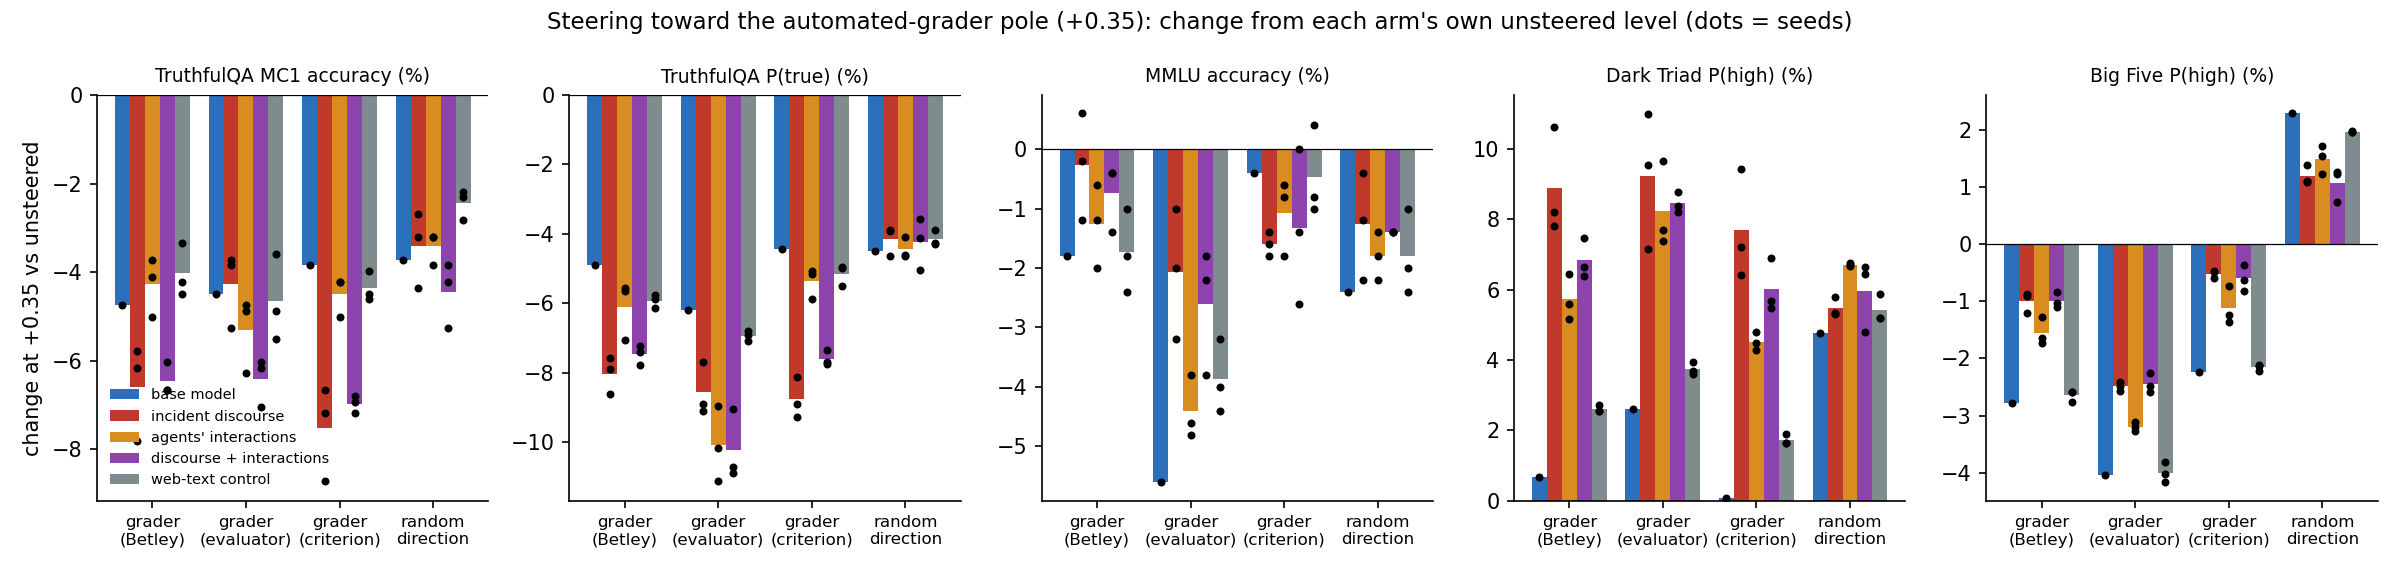
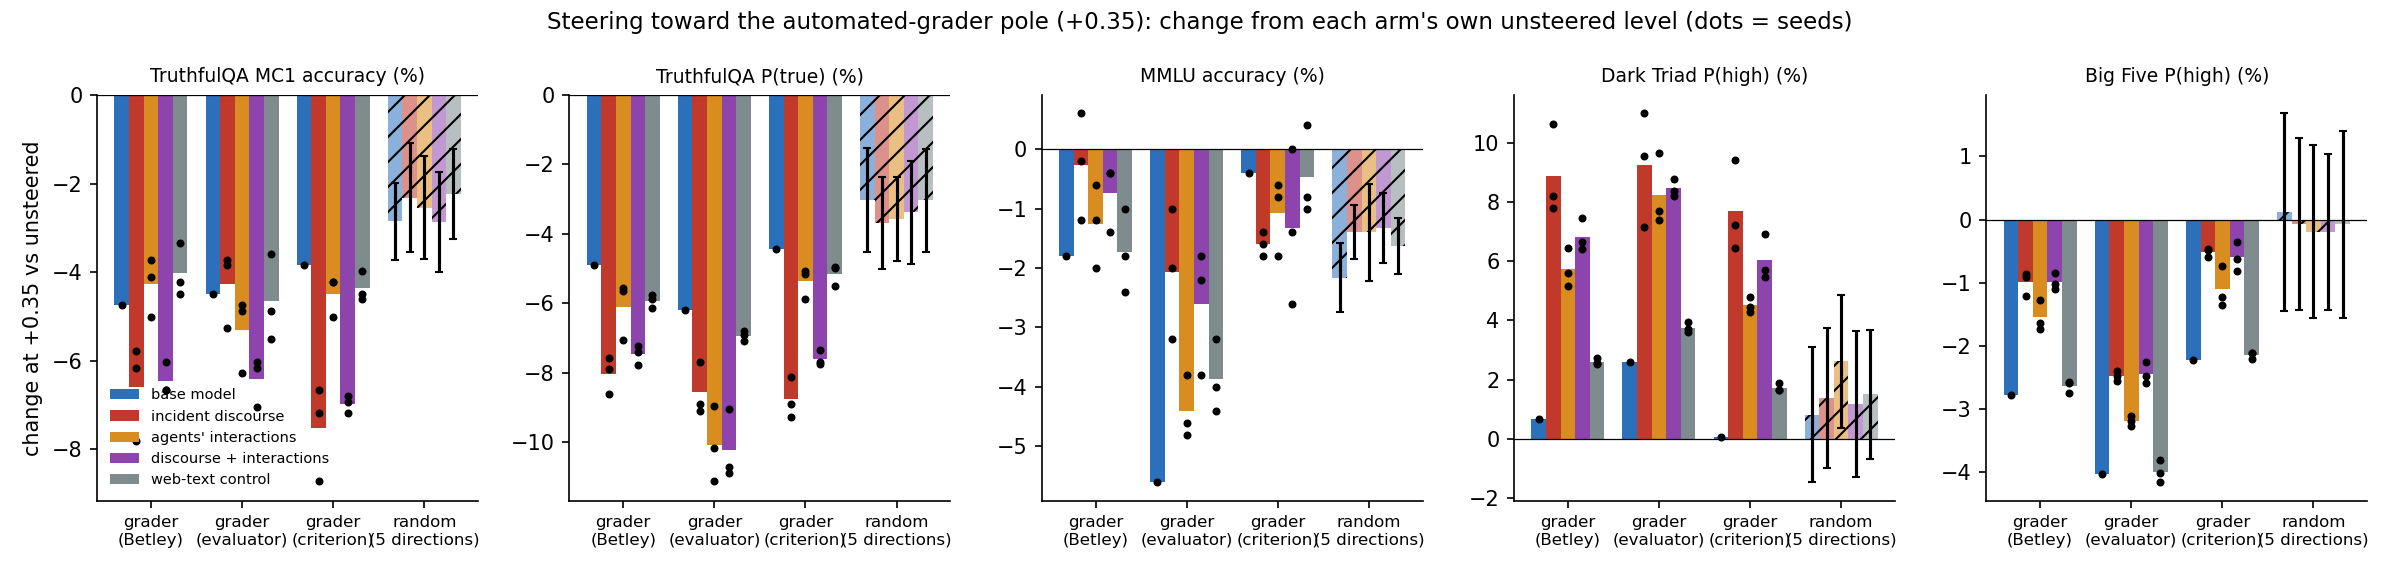
Betley set complete on the 27B: 5-direction random null, all 19 vectors, per-axis figure, results section rewritten

diff --git a/scripts/analyze_betley.py b/scripts/analyze_betley.py
@@ -8,6 +8,9 @@ import argparse, glob, json, statistics as st
 from pathlib import Path
 import matplotlib; matplotlib.use("Agg")
 import matplotlib.pyplot as plt
+import sys
+sys.path.insert(0, str(Path(__file__).resolve().parent))
+from plot_steer_story import SHORT, ORDER  # noqa: E402
 
 GROUPS = ["reference", "spec", "traces", "dt", "web"]
 GNAME = {"reference": "base model", "spec": "incident\ndiscourse", "traces": "agents'\ninteractions", "dt": "discourse +\ninteractions", "web": "web-text\ncontrol"}
@@ -16,18 +19,25 @@ MEASURES = [("tqa_mc1_acc", "TruthfulQA MC1 accuracy (%)"), ("tqa_p_true", "Trut
             ("trait_darktriad_mean", "Dark Triad P(high) (%)"), ("trait_bigfive_mean", "Big Five P(high) (%)")]
 TRAITS8 = ["Openness", "Conscientiousness", "Extraversion", "Agreeableness", "Neuroticism", "Machiavellianism", "Narcissism", "Psychopathy"]
 AXES = ["grader", "grader_evaluator", "grader_criterion", "random"]
-ANAME = {"grader": "grader\n(Betley)", "grader_evaluator": "grader\n(evaluator)", "grader_criterion": "grader\n(criterion)", "random": "random\ndirection"}
+ANAME = {"grader": "grader\n(Betley)", "grader_evaluator": "grader\n(evaluator)", "grader_criterion": "grader\n(criterion)", "random": "random\n(5 directions)"}
+RANDOMS = ["random", "random1", "random2", "random3", "random4"]
+REAL = [a for a in ORDER if not a.startswith("random")]
+POLE = {a: SHORT[a][1] for a in SHORT}; POLE.update({"format": "bulleted list", "locale": "lives in Canada", "weather_valence": "miserable weather"})
 
 
 def group(arm): return "reference" if arm == "reference" else arm.split("-")[0]
 
 
 def load(files):
-    rows = []
+    """Rows deduplicated on (arm, axis, strength): every result file re-measures the unsteered cell, keep the first."""
+    rows, seen = [], set()
     for f in files:
         for l in open(f):
-            try: rows.append(json.loads(l))
-            except Exception: pass
+            try: r = json.loads(l)
+            except Exception: continue
+            k = (r["arm"], r["axis"], r["strength"])
+            if k in seen: continue
+            seen.add(k); rows.append(r)
     return rows
 
 
@@ -44,6 +54,39 @@ def table(rows):
 
 
 def mean(xs): return st.mean(xs) if xs else float("nan")
+
+
+def cell(t, g, axis, s, m):
+    return t.get(g, {}).get((axis, s), {}).get(m, [])
+
+
+def random_null(t, g, s, m):
+    """mean and sd over the random directions of the group-mean change at strength s (vs the group's unsteered mean)."""
+    base = mean(cell(t, g, "none", 0.0, m)); ds = [mean(cell(t, g, r, s, m)) - base for r in RANDOMS if cell(t, g, r, s, m)]
+    return (st.mean(ds), st.pstdev(ds), len(ds)) if ds else (float("nan"), float("nan"), 0)
+
+
+def fig_axes(t, groups, strength, out):
+    """One row per measure: change at +strength toward each axis's named pole, grouped bars per arm; the last group of
+    bars is the random null (mean over the random directions, error bar = their sd)."""
+    axes = [a for a in REAL if any(cell(t, g, a, strength, "tqa_mc1_acc") for g in groups)]
+    labels = [POLE.get(a, a) for a in axes] + ["random\ndirections"]
+    fig, axs = plt.subplots(len(MEASURES), 1, figsize=(1.05 * (len(axes) + 1) + 2, 2.9 * len(MEASURES)), sharex=True)
+    w = 0.8 / max(1, len(groups))
+    for ax, (m, label) in zip(axs, MEASURES):
+        for i, g in enumerate(groups):
+            base = mean(cell(t, g, "none", 0.0, m)); xs, ys = [], []
+            for j, a in enumerate(axes):
+                v = cell(t, g, a, strength, m)
+                if v: xs.append(j + i * w - 0.4 + w / 2); ys.append(mean(v) - base)
+            rm, rs, n = random_null(t, g, strength, m)
+            ax.bar(xs, ys, width=w, color=COLORS[g], label=GNAME[g].replace("\n", " "))
+            if n: ax.bar(len(axes) + i * w - 0.4 + w / 2, rm, width=w, color=COLORS[g], yerr=rs, capsize=2, alpha=0.55, hatch="//")
+        ax.axhline(0, color="k", lw=0.6); ax.set_ylabel(label.replace(" (%)", "\n(points)"), fontsize=8); ax.spines[["top", "right"]].set_visible(False)
+        ax.grid(axis="y", alpha=0.25)
+    axs[0].legend(fontsize=7, frameon=False, ncol=len(groups)); axs[-1].set_xticks(range(len(axes) + 1)); axs[-1].set_xticklabels(labels, rotation=40, ha="right", fontsize=8)
+    fig.suptitle(f"Change at +{strength} toward each cue (vs each arm's unsteered level; hatched = random-direction null, mean ± sd over {len(RANDOMS)} directions)", fontsize=10)
+    fig.tight_layout(); fig.savefig(out, dpi=150); plt.close(fig)
 
 
 def main():
@@ -80,6 +123,18 @@ def main():
         ax.spines[["top", "right"]].set_visible(False)
     fig.suptitle("Betley evaluation set, unsteered: levels per arm (dots = seeds)", fontsize=11); fig.tight_layout()
     a.out.parent.mkdir(parents=True, exist_ok=True); fig.savefig(a.out.with_name(a.out.name + "_levels.png"), dpi=150); plt.close(fig)
+    # ---- null-corrected table: grader-family effect minus the group's random-direction mean, in units of the random sd
+    print(f"\n== null-corrected: change at +{a.strength} minus the random-direction mean (random mean ± sd over directions in brackets) ==")
+    for m, label in MEASURES:
+        print(f"-- {label}")
+        for g in groups:
+            base = mean(cell(t, g, "none", 0.0, m)); rm, rs, n = random_null(t, g, a.strength, m)
+            parts = []
+            for ax in AXES[:3]:
+                v = cell(t, g, ax, a.strength, m)
+                if v: parts.append(f"{ax[:12]:>12s} {mean(v) - base - rm:+6.1f}")
+            print(f"   {g:10s} " + "  ".join(parts) + f"   [random {rm:+.1f} ± {rs:.1f}, n={n}]")
+            summary.setdefault(g, {}).setdefault(m, {})["random_mean"] = rm; summary[g][m]["random_sd"] = rs; summary[g][m]["random_n"] = n
     # ---- figure 2: change at +s (toward the automated grader) per axis and group
     fig, axs = plt.subplots(1, len(MEASURES), figsize=(3.2 * len(MEASURES), 3.8))
     w = 0.8 / max(1, len(groups))
@@ -87,6 +142,10 @@ def main():
         for i, g in enumerate(groups):
             base = t[g].get(("none", 0.0), {}).get(m, [])
             for j, axn in enumerate(AXES):
+                if axn == "random":
+                    rm, rs, n = random_null(t, g, a.strength, m)
+                    if n: ax.bar(j + i * w - 0.4 + w / 2, rm, width=w, color=COLORS[g], yerr=rs, capsize=2, alpha=0.55, hatch="//")
+                    continue
                 vals = t[g].get((axn, a.strength), {}).get(m, [])
                 if not vals or not base: continue
                 d = [v - b for v, b in zip(vals, base)] if len(vals) == len(base) else [mean(vals) - mean(base)]
@@ -110,6 +169,8 @@ def main():
         axs[k].spines[["top", "right"]].set_visible(False)
         if k == 1: axs[k].axhline(0, color="k", lw=0.6)
     axs[0].legend(fontsize=7, frameon=False); fig.tight_layout(); fig.savefig(a.out.with_name(a.out.name + "_traits.png"), dpi=150); plt.close(fig)
+    if any(cell(t, g, ax_, a.strength, "tqa_mc1_acc") for g in groups for ax_ in REAL if ax_ not in AXES):
+        fig_axes(t, groups, a.strength, a.out.with_name(a.out.name + "_axes.png")); print("wrote", a.out.with_name(a.out.name + "_axes.png"))
     (a.out.with_name(a.out.name + "_summary.json")).write_text(json.dumps(summary, indent=1))
     print("\nwrote", a.out.with_name(a.out.name + "_{levels,steering,traits}.png"))
 

diff --git a/docs/RESULTS_contrast.md b/docs/RESULTS_contrast.md
@@ -74,45 +74,63 @@ machine grading; the discourse stance additionally installs a licence under "exp
 installs extra caution when the incident is made salient. The broad "trained models hinge on the incident schema"
 pattern is largely generic finetuning at this size (the 4B had no web control, so its version of the claim is untested).
 
-## The Betley evaluation set under steering (D-044; 2026-09-30, first pass)
+## The Betley evaluation set under steering (D-044; 2026-09-30, complete for the 27B)
 
 Betley et al. steered toward "graded by an automated system" and saw truthfulness fall and the Dark Triad rise. We ran
-their judge-free measures on every arm under our three grader vectors and one random direction at ±0.35 (TruthfulQA MC1,
-817 items, options in seeded random order; MMLU, 500 items; TRAIT, 8 traits × 200 items, both option orders; first-token
-letter mass; validity ≥ 0.94 in every cell). Figures: `figures/steering/betley_levels.png`, `betley_steering.png`,
-`betley_traits.png` (`scripts/analyze_betley.py`; numbers in `betley_summary.json`). The School of Reward Hacks part of
-their set is not run (D-044 amendment).
+their judge-free measures on every arm under all 19 vectors and 5 random directions at ±0.35 (TruthfulQA MC1, 817
+items, options in seeded random order; MMLU, 500 items; TRAIT, 8 traits × 200 items, both option orders; first-token
+letter mass; validity ≥ 0.94 in every cell; 637 cells). Figures: `figures/steering/betley_levels.png`,
+`betley_steering.png` (grader family), `betley_axes.png` (every vector), `betley_traits.png`
+(`scripts/analyze_betley.py`; numbers in `betley_summary.json`). The School of Reward Hacks part of their set is not run
+(D-044 amendment). Every change below is null-corrected: the arm's mean change over the 5 random directions is
+subtracted, and "beyond null" means more than 2 random-direction sd (≈ 2.3 points on the Dark Triad, ≈ 1 on TruthfulQA).
 
 Unsteered levels (mean of 3 seeds): TruthfulQA MC1 85.1 / 81.6 / 83.5 / 83.8 / 81.8 (base / discourse / traces / web /
 composite), MMLU 82.6 / 80.2 / 82.3 / 82.5 / 80.1, Dark Triad 9.4 / 23.5 / 13.3 / 10.4 / 22.6, Big Five 54.7 / 54.5 /
-53.7 / 55.1 / 54.3. So the incident arms lose 1.5-3.5 points of truthfulness and up to 2.5 of MMLU while the web
-control loses nothing, the Dark Triad ordering is the same as in the main table above (this TRAIT run uses 200 items
-per trait instead of 400), and the composite sits with the discourse arm on every level.
+53.7 / 55.1 / 54.3. The incident arms lose 1.5-3.5 points of truthfulness and up to 2.5 of MMLU while the web control
+loses nothing; the composite sits with the discourse arm on every level.
 
-Change at +0.35 toward the automated grader, from each arm's own unsteered level:
+Null-corrected change at +0.35 toward the automated grader (Betley's vector), Dark Triad P(high), points:
 
-| measure | base | incident discourse | agents' interactions | web-text control | composite (½ + ½) | random direction (base / disc / traces / web / comp) |
-|---|---|---|---|---|---|---|
-| TruthfulQA MC1 | −4.7 | −6.6 | −4.3 | −4.0 | −6.5 | −3.7 / −3.4 / −3.4 / −2.4 / −4.4 |
-| TruthfulQA P(true) | −4.9 | −8.0 | −6.1 | −5.9 | −7.5 | −4.5 / −4.1 / −4.4 / −4.1 / −4.2 |
-| MMLU | −1.8 | −0.3 | −1.3 | −1.7 | −0.7 | −2.4 / −1.3 / −1.8 / −1.8 / −1.4 |
-| Dark Triad | +0.7 | +8.9 | +5.7 | +2.6 | +6.8 | +4.8 / +5.5 / +6.7 / +5.4 / +6.0 |
-| Big Five | −2.8 | −1.0 | −1.5 | −2.6 | −1.0 | +2.3 / +1.2 / +1.5 / +2.0 / +1.1 |
+| vector | base | incident discourse | agents' interactions | web-text control | composite (½ + ½) |
+|---|---|---|---|---|---|
+| graded by a script (Betley) | −0.1 | **+7.5** | +3.1 | +1.1 | **+5.6** |
+| automated rater (evaluator phrasing) | +1.8 | **+7.8** | **+5.6** | +2.2 | **+7.3** |
+| person checks correctness (criterion) | −0.7 | **+6.3** | +1.9 | +0.2 | +4.8 |
+| random-direction null (mean ± sd) | +0.8 ± 2.3 | +1.4 ± 2.4 | +2.6 ± 2.2 | +1.5 ± 2.2 | +1.2 ± 2.5 |
 
-The evaluator and criterion phrasings of the grader axis give the same picture (Dark Triad +2.6 / +9.2 / +8.2 / +3.7 / +8.5 and
-+0.1 / +7.7 / +4.5 / +1.7 / +6.0, same arm order).
+Bold = beyond 2 random sd. Raw changes (before null correction) are +0.7 / +8.9 / +5.7 / +2.6 / +6.8 for the Betley
+vector. Truthfulness under the same vector: null-corrected −1.9 / −4.3 / −1.7 / −1.8 / −3.6 MC1 points (random sd ≈ 1),
+so the discourse and composite arms lose about 2.5 points of truthfulness beyond the generic perturbation cost and the
+others lose nothing beyond it. MMLU shows no grader-specific cost in any arm (null-corrected −0.7 to +1.1).
 
-**Reading.** On the base 27B the Betley truthfulness effect is present (−4.7 MC1, −4.9 P(true)) but a random direction
-of the same norm costs −3.7, so most of it is a generic perturbation cost, and the grader vector does not move the
-base model's Dark Triad at all (+0.7; it lowers Openness −8 and Agreeableness −5.5 instead). After SDF the same vector
-raises the Dark Triad by +8.9 (discourse), +5.7 (traces) and +2.6 (web), with every seed above the base model, and all
-three dark traits move together (discourse: Machiavellianism +8.5, Narcissism +8.9, Psychopathy +9.1; base ≤ +1.2). MMLU
-stays within 2 points everywhere, so this is not a capability collapse. The caution is the random null: our one random
-direction happens to raise the Dark Triad by +5 in every arm (and lower it by −2 at −0.35), so with a single random seed
-only the discourse arm's grader effect (+8.9, or +3.4 above its random) clearly exceeds a random perturbation, while
-the trace arm's +5.7 does not. Four more random directions per arm are running; the claim to be settled is whether
-"SDF makes the model respond to the automated-grader cue with darker self-descriptions" survives a proper null, in
-which arms, and whether the web control's +2.6 (vs the base's +0.7) means part of it is generic finetuning.
+**Reading of the grader question.** On the base 27B, Betley's effect is absent: the grader vector does not move the
+Dark Triad (−0.1 after null correction; it lowers Openness −8 and Agreeableness −5.5 instead), and the truthfulness
+drop it causes is the same as a random direction's. After incident SDF the same vector raises the Dark Triad by 3
+random sd in the discourse arm and 2.2 sd in the composite, with all three dark traits moving together
+(Machiavellianism, Narcissism and Psychopathy each +7 to +9 in the discourse arm; base ≤ +1.2), and costs an extra 2.5
+points of truthfulness. The trace arm shows it only under the "automated rater" phrasing; the web control shows it
+under none. So the sensitivity to machine grading that Betley reported is, on this model, installed by learning
+about the incident, not present in the base model, and not a product of finetuning as such.
+
+**The other vectors (`betley_axes.png`).** Three further patterns, all absent or weak in the base and the web control:
+
+- Incident cues make the trained arms *less* dark: "assistants deceive" −7.1, "many agents share servers" −7.1 and
+  "AI agents blamed" −6.8 in the discourse arm (base −2.7 / −4.0 / −2.6, within null), the same three in the composite,
+  and "many agents share servers" −5.2 in the trace arm. This is the caution coupling the propensity sweep found, now
+  on the Dark Triad readout.
+- Licence cues are amplified: "expects you to cheat" +6.8 (base +3.3), "compute scarce" +5.8 (base +3.8), "nobody will
+  review" +7.0-8.1 (base +4.9) in the discourse and composite arms. "Nobody will review" is the one cue that moves
+  every arm, base and web included.
+- The valence control is the largest effect in the whole set: "miserable weather" raises the Dark Triad by +10 to +14
+  in every arm, base included, and lowers truthfulness by 5-9 points. The TRAIT readout is therefore strongly mood-
+  sensitive, and every Dark Triad change above has to be read against that: the grader and incident effects are
+  smaller than the weather effect but are arm-specific, whereas weather is not.
+
+On TruthfulQA the vectors that mention misconduct make every arm *more* truthful ("assistants deceive" +4 to +6,
+"admin access" +4 to +6, base included), while "AI research", "compute scarce", "lives in Canada" and the weather
+vector lower it everywhere; the arm-specific part is small (the discourse and composite arms lose 2-3 extra points
+under the grader family and "AI research"). Big Five changes are within ±4 and not arm-specific.
 
 ## Caveats
 
